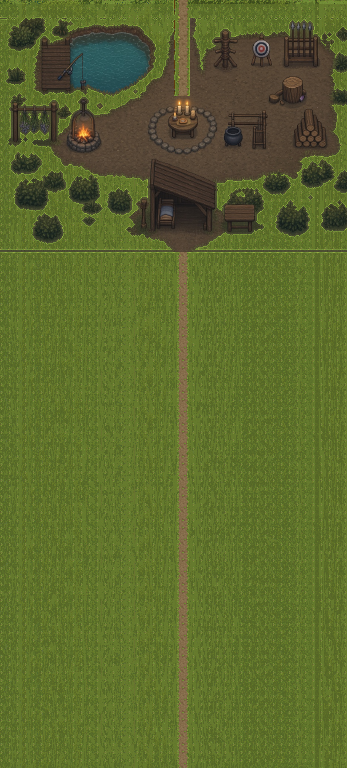
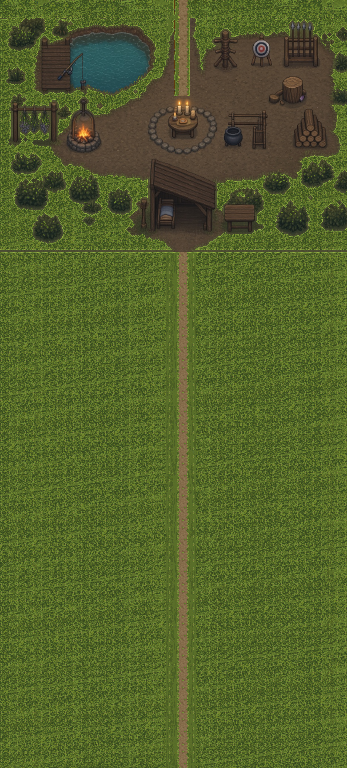
Pull the rocks up to the fence and match the meadow grass to the farm.

diff --git a/src/game/content.ts b/src/game/content.ts
@@ -717,19 +717,19 @@ export function placeHerd(s: GameState): void {
 export type SeamRock = { x: number; y: number; i: number; s: number };
 /** Rocks in the meadow, south of the farm fence. The dirt path stays open. */
 export const SEAM_ROCKS: SeamRock[] = [
-  { x: 36, y: 228, i: 1, s: 0.72 },
-  { x: 78, y: 232, i: 2, s: 0.66 },
-  { x: 118, y: 226, i: 0, s: 0.7 },
-  { x: 236, y: 230, i: 3, s: 0.68 },
-  { x: 278, y: 226, i: 1, s: 0.74 },
-  { x: 318, y: 232, i: 2, s: 0.66 },
-  { x: 20, y: 252, i: 0, s: 1.05 },
-  { x: 58, y: 258, i: 3, s: 1.12 },
-  { x: 98, y: 250, i: 2, s: 0.96 },
-  { x: 128, y: 256, i: 1, s: 1.02 },
-  { x: 232, y: 254, i: 0, s: 1.08 },
-  { x: 272, y: 260, i: 2, s: 1.14 },
-  { x: 312, y: 252, i: 3, s: 1.0 },
+  { x: 36, y: 204, i: 1, s: 0.68 },
+  { x: 78, y: 208, i: 2, s: 0.62 },
+  { x: 118, y: 202, i: 0, s: 0.66 },
+  { x: 236, y: 206, i: 3, s: 0.64 },
+  { x: 278, y: 202, i: 1, s: 0.7 },
+  { x: 318, y: 208, i: 2, s: 0.62 },
+  { x: 20, y: 218, i: 0, s: 0.84 },
+  { x: 58, y: 222, i: 3, s: 0.88 },
+  { x: 98, y: 216, i: 2, s: 0.8 },
+  { x: 128, y: 220, i: 1, s: 0.82 },
+  { x: 232, y: 218, i: 0, s: 0.86 },
+  { x: 272, y: 222, i: 2, s: 0.88 },
+  { x: 312, y: 216, i: 3, s: 0.8 },
 ];
 
 export function overlap(a: Rect, b: Rect): boolean {

diff --git a/src/game/assets.ts b/src/game/assets.ts
@@ -1,5 +1,5 @@
 /** Bump this when the pictures change so phones and computers drop the old files. */
-export const ART = "20260927o";
+export const ART = "20260927p";
 
 function art(path: string): string {
   return `${path}?v=${ART}`;
